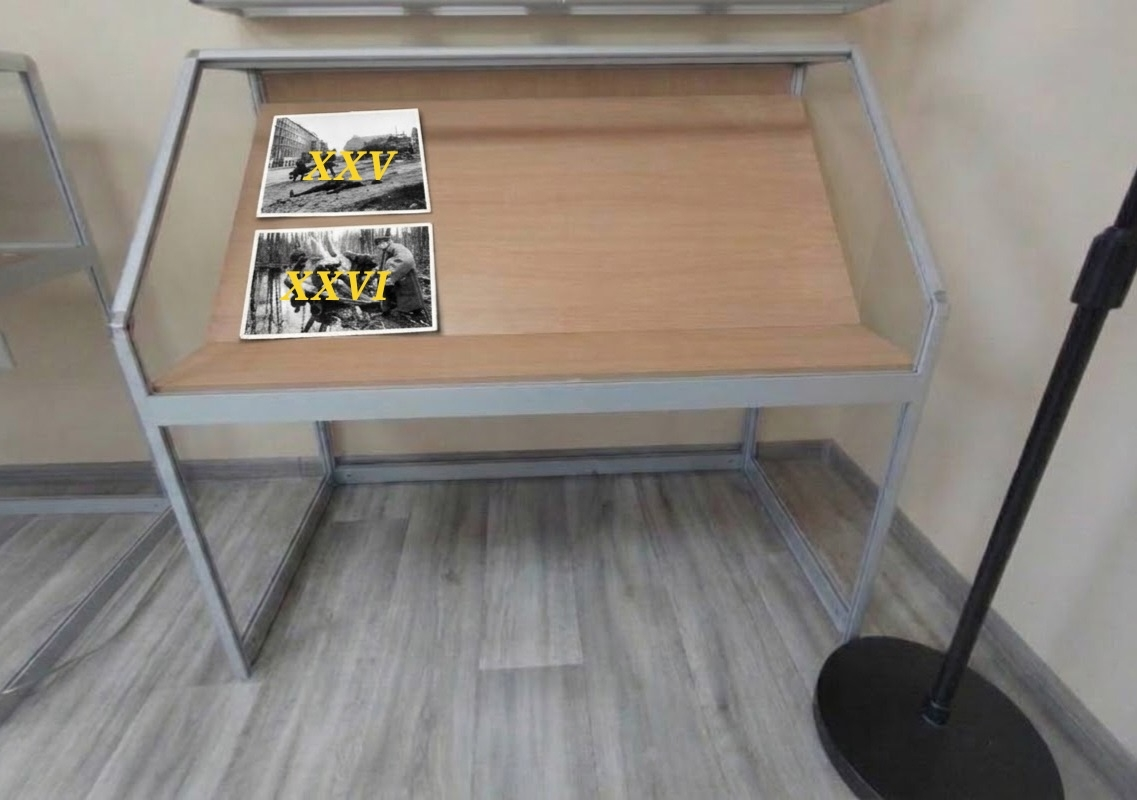
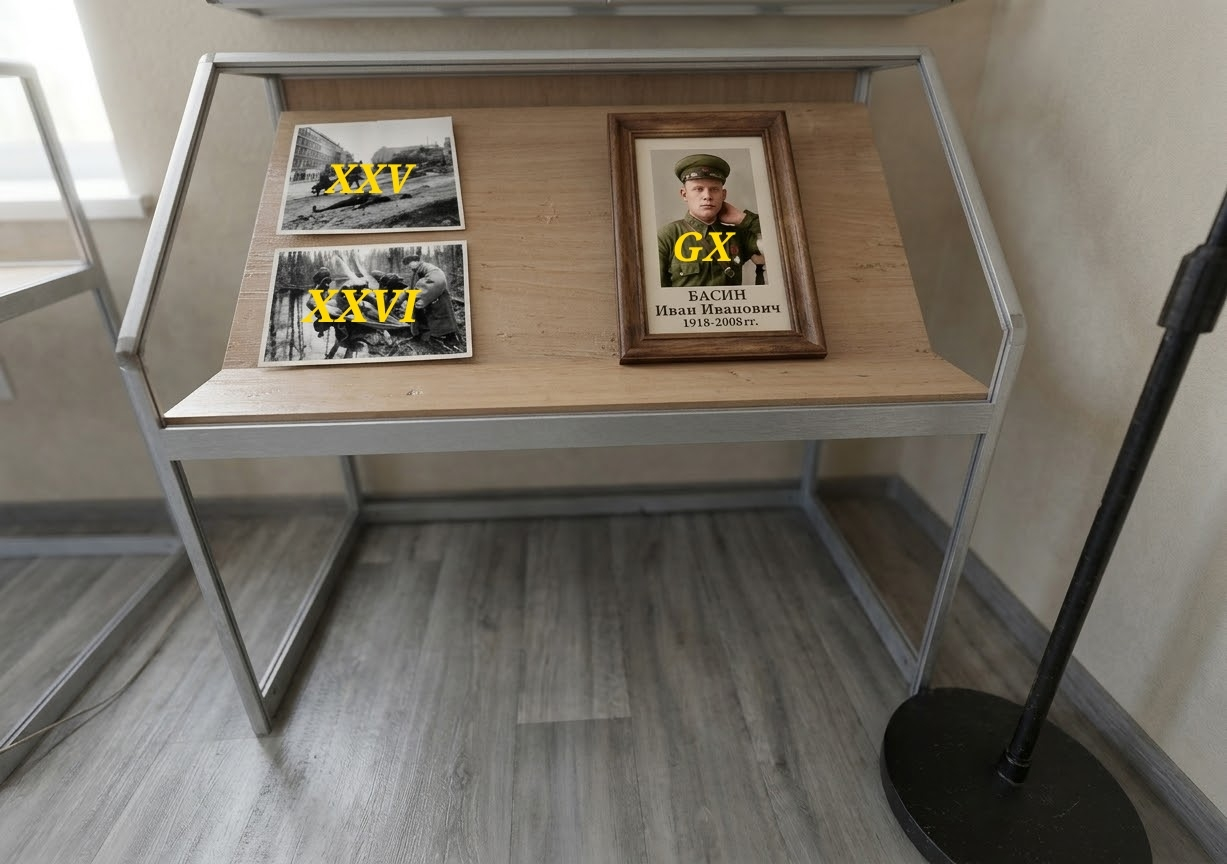
Update memory display and add Basin portrait

diff --git a/script.js b/script.js
@@ -111,6 +111,7 @@ function makeExhibit(id, title, extras = {}) {
     title,
     image: extras.image || `${id}.jpg`,
     preserveImageFormat: Boolean(extras.preserveImageFormat),
+    fullViewImage: extras.fullViewImage || null,
     textFile,
     audioFile: extras.audioFile === null ? null : (extras.audioFile || audioFileForExhibit(id, textFile)),
     fallback: extras.fallback || "",
@@ -202,6 +203,11 @@ Object.assign(EXHIBITS, {
     audioFile: "audio_vitrina_pamyati(13)_(XXV)_info_about_image.mp3",
   }),
   "vitrina_pamyati(13)_(XXVI)": makeExhibit("vitrina_pamyati(13)_(XXVI)", "Хлеб для партизан"),
+  "vitrina_pamyati(13)_(GX)": makeExhibit("vitrina_pamyati(13)_(GX)", "Герой - Басин И.И.", {
+    textFile: null,
+    audioFile: null,
+    fullViewImage: "vitrina_pamyati(13)_(GX)_full_view_photo.jpg",
+  }),
 });
 
 [
@@ -395,6 +401,7 @@ const SCENES = {
     spots: [
       { id: "vitrina_pamyati(13)_(XXV)", title: "Бой в Берлине", left: "18%", top: "12%", width: "22%", height: "16%" },
       { id: "vitrina_pamyati(13)_(XXVI)", title: "Хлеб для партизан", left: "18%", top: "28%", width: "22%", height: "16%" },
+      { id: "vitrina_pamyati(13)_(GX)", title: "Герой - Басин И.И.", left: "50%", top: "11%", width: "19%", height: "31%" },
     ],
   },
   "Stend_about_Chechnya_Afghanistan_WWII(1)": {
@@ -528,7 +535,10 @@ function encodePath(dir, file, preserveImageFormat = false) {
   const imageFile = dir === IMAGE_DIR && !preserveImageFormat && !/^kniga_pamyati/i.test(file)
     ? file.replace(/\.(jpe?g)$/i, ".webp")
     : file;
-  return dir + encodeURIComponent(imageFile).replace(/%2F/g, "/");
+  const path = dir + encodeURIComponent(imageFile).replace(/%2F/g, "/");
+  const isUpdatedMemoryDisplay = dir === IMAGE_DIR &&
+    /^vitrina_pamyati\(13\)(?:_hits_for_markers|_\(GX\)(?:_full_view_photo)?)?\.(?:jpe?g|webp)$/i.test(imageFile);
+  return isUpdatedMemoryDisplay ? `${path}?v=20261108-1` : path;
 }
 
 function createPanZoom(viewport, world) {
@@ -973,6 +983,7 @@ async function openExhibit(id, blurSrc) {
   currentExhibitId = id;
   const isHeroPortrait = id === "Stend_about_Chechnya_Afghanistan_WWII(1)_(VI)";
   const isStandPhoto = id.startsWith("Stend_about_Chechnya_Afghanistan_WWII(1)_");
+  const canOpenFullView = isStandPhoto || Boolean(data.fullViewImage);
   exhibit.classList.toggle("is-symbol-detail", id === "Gerb_RF(3)" || id === "Hymn_RF(4)");
   exhibit.classList.toggle("is-hymn-detail", id === "Hymn_RF(4)");
   exhibit.classList.toggle("is-flag-detail", id === "Flag_RF(2)");
@@ -981,7 +992,7 @@ async function openExhibit(id, blurSrc) {
   exhibit.classList.remove("is-open");
   exhibitPhoto.src = encodePath(IMAGE_DIR, data.image, data.preserveImageFormat);
   exhibitPhoto.alt = data.title || data.image;
-  if (isStandPhoto) {
+  if (canOpenFullView) {
     exhibitPhoto.setAttribute("role", "button");
     exhibitPhoto.setAttribute("tabindex", "0");
     exhibitPhoto.setAttribute("aria-label", `Открыть фотографию на весь экран: ${data.title}`);
@@ -1454,17 +1465,22 @@ document.getElementById("lightboxNext").addEventListener("click", () => navigate
 document.getElementById("closeLightbox").addEventListener("click", closeLightbox);
 document.querySelector("[data-close-lightbox]").addEventListener("click", closeLightbox);
 document.getElementById("closeExhibit").addEventListener("click", closeExhibit);
-exhibitPhoto.addEventListener("click", () => {
-  if (!currentExhibitId?.startsWith("Stend_about_Chechnya_Afghanistan_WWII(1)_")) return;
-  openImageLightbox(exhibitPhoto.src, exhibitPhoto.alt);
-});
+function openCurrentExhibitFullView() {
+  const data = EXHIBITS[currentExhibitId];
+  const isStandPhoto = currentExhibitId?.startsWith("Stend_about_Chechnya_Afghanistan_WWII(1)_");
+  if (!data?.fullViewImage && !isStandPhoto) return;
+  const src = data.fullViewImage
+    ? encodePath(IMAGE_DIR, data.fullViewImage)
+    : exhibitPhoto.src;
+  openImageLightbox(src, exhibitPhoto.alt);
+}
+
+exhibitPhoto.addEventListener("click", openCurrentExhibitFullView);
 exhibitPhoto.addEventListener("keydown", (event) => {
-  if (
-    !currentExhibitId?.startsWith("Stend_about_Chechnya_Afghanistan_WWII(1)_") ||
-    (event.key !== "Enter" && event.key !== " ")
-  ) return;
+  if (event.key !== "Enter" && event.key !== " ") return;
+  if (!exhibitPhoto.hasAttribute("role")) return;
   event.preventDefault();
-  openImageLightbox(exhibitPhoto.src, exhibitPhoto.alt);
+  openCurrentExhibitFullView();
 });
 audioToggle.addEventListener("click", async () => {
   if (!exhibitAudio.paused) {

diff --git a/index.html b/index.html
@@ -234,6 +234,6 @@
     <button class="book-nav next" type="button" id="bookNext" aria-label="Следующая страница"></button>
   </div>
 
-  <script src="script.js?v=20261107-1"></script>
+  <script src="script.js?v=20261108-1"></script>
 </body>
 </html>
